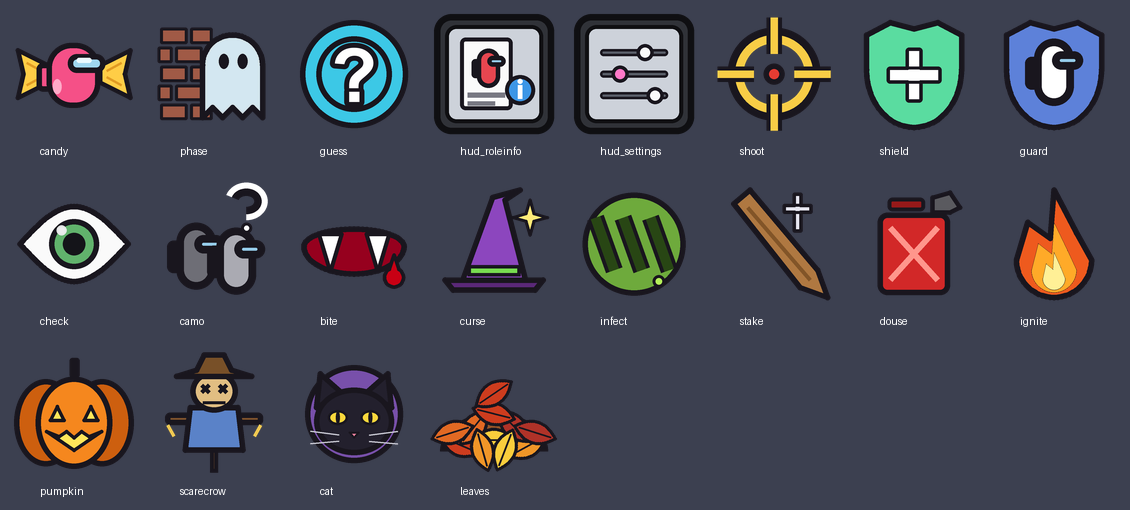
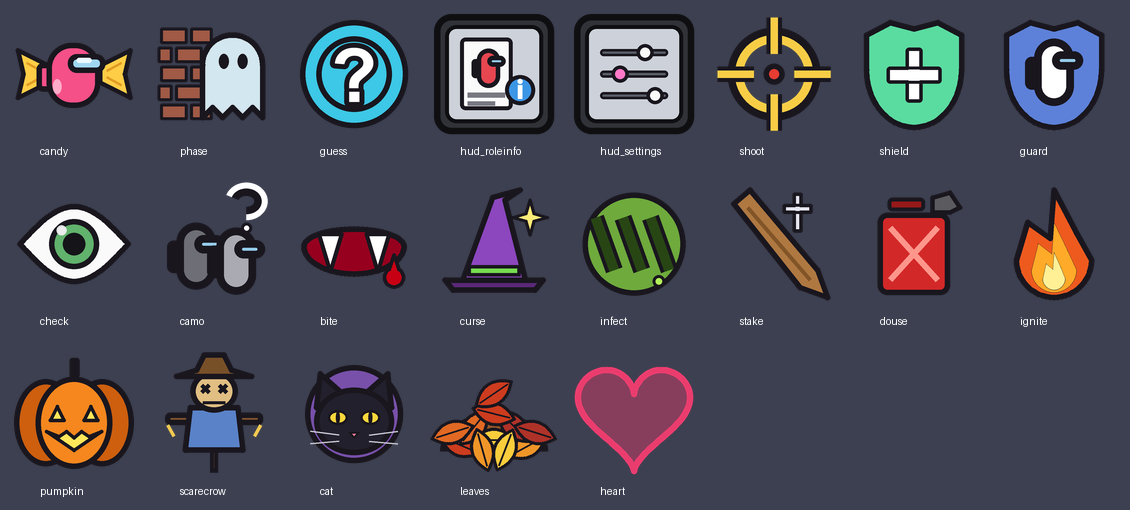
Spieleabend-Graffiti auf The Skeld

Changed region(s): [[0.4956, 0.7059, 0.6195, 0.9412], [0.5265, 0.9412, 0.5575, 0.9706]]

diff --git a/Core/MapGraffiti.cs b/Core/MapGraffiti.cs
@@ -1,0 +1,122 @@
+using System.Collections.Generic;
+using System.Linq;
+using TMPro;
+using UnityEngine;
+
+namespace Spieleabend.Core;
+
+/// <summary>
+/// Spieleabend-Graffiti auf The Skeld: Sprueche der Mitspieler an Waenden, Tischen und Aufgaben.
+/// Rein optisch und lokal. Positionen werden aus Raeumen, Aufgaben und Vents berechnet, damit sie auch auf der
+/// gespiegelten Skeld passen.
+/// </summary>
+internal static class MapGraffiti
+{
+    private static System.IntPtr spawnedFor;
+    private static readonly List<GameObject> objects = new();
+
+    internal static void Update()
+    {
+        var ship = ShipStatus.Instance;
+        if (!ship)
+        {
+            spawnedFor = System.IntPtr.Zero;
+            objects.Clear();
+            return;
+        }
+        if (spawnedFor == ship.Pointer || ship.Type != ShipStatus.MapType.Ship) return;
+
+        var local = PlayerControl.LocalPlayer;
+        if (!local || !local.cosmetics || !local.cosmetics.nameText) return; // Schrift kommt vom Namensschild
+        spawnedFor = ship.Pointer;
+
+        try { Spawn(ship, local.cosmetics.nameText); }
+        catch (System.Exception e) { Plugin.Logger.LogWarning($"Graffiti: {e.Message}"); }
+    }
+
+    private static void Spawn(ShipStatus ship, TextMeshPro font)
+    {
+        // An Waenden (oberer Rand des Raums)
+        Room(ship, SystemTypes.Cafeteria, 0.22f, 0.9f, "Waybe isses", new Color32(255, 200, 60, 255), -4f);
+        Room(ship, SystemTypes.Electrical, 0.5f, 0.88f, "Ich bins der Imposter", new Color32(255, 60, 60, 255), 3f);
+        Room(ship, SystemTypes.UpperEngine, 0.5f, 0.88f, "WoabWoabWoab", new Color32(120, 230, 90, 255), -3f);
+        Room(ship, SystemTypes.Security, 0.5f, 0.88f, "Dennator is Save", new Color32(90, 170, 255, 255), 2f);
+
+        // Herzen
+        Heart(ship, SystemTypes.MedBay, 0.75f, 0.82f, "V + P", -8f);
+        Heart(ship, SystemTypes.Storage, 0.3f, 0.78f, "I + M", 7f);
+
+        // An Aufgaben
+        var download = Consoles(ship, TaskTypes.UploadData)
+            .OrderBy(c => c.Room == SystemTypes.Nav ? 0 : c.Room == SystemTypes.Weapons ? 1 : c.Room == SystemTypes.Admin ? 9 : 5)
+            .FirstOrDefault();
+        if (download) Text(font, (Vector2)download.transform.position + new Vector2(0f, 0.9f), "Lord Toasti's 4ter Download", new Color32(255, 150, 40, 255), 0.75f, 4f);
+
+        var swipe = Consoles(ship, TaskTypes.SwipeCard).FirstOrDefault();
+        if (swipe) Text(font, (Vector2)swipe.transform.position + new Vector2(0f, 0.8f), "Froschi das ist kein Bug.", new Color32(110, 220, 120, 255), 0.75f, -3f);
+
+        // Am Vent, das der Cafeteria am naechsten ist
+        var cafe = RoomBounds(ship, SystemTypes.Cafeteria);
+        if (cafe.HasValue)
+        {
+            var vent = ship.AllVents.Where(v => v).OrderBy(v => Vector2.Distance(v.transform.position, cafe.Value.center)).FirstOrDefault();
+            if (vent) Text(font, (Vector2)vent.transform.position + new Vector2(0f, 0.75f), "ich hab Kem Venten sehen", new Color32(230, 120, 255, 255), 0.75f, 5f);
+        }
+
+        void Room(ShipStatus s, SystemTypes room, float fx, float fy, string text, Color color, float angle)
+        {
+            var b = RoomBounds(s, room);
+            if (b.HasValue) Text(font, At(b.Value, fx, fy), text, color, 1f, angle);
+        }
+
+        void Heart(ShipStatus s, SystemTypes room, float fx, float fy, string text, float angle)
+        {
+            var b = RoomBounds(s, room);
+            if (!b.HasValue) return;
+            var pos = At(b.Value, fx, fy);
+            var go = new GameObject("Spieleabend_GraffitiHeart");
+            go.transform.SetParent(s.transform, true);
+            go.transform.position = new Vector3(pos.x, pos.y, pos.y / 1000f + 0.002f); // hinter dem Text
+            go.transform.localRotation = Quaternion.Euler(0f, 0f, angle);
+            go.transform.localScale = new Vector3(0.9f, 0.9f, 1f);
+            go.AddComponent<SpriteRenderer>().sprite = ButtonIcons.Get("heart", null);
+            objects.Add(go);
+            Text(font, pos + new Vector2(0f, 0.05f), text, Color.white, 0.8f, angle);
+        }
+    }
+
+    private static IEnumerable<Console> Consoles(ShipStatus ship, TaskTypes type) =>
+        ship.AllConsoles.Where(c => c && c.TaskTypes != null && c.TaskTypes.Contains(type));
+
+    private static Bounds? RoomBounds(ShipStatus ship, SystemTypes room)
+    {
+        foreach (var r in ship.AllRooms)
+            if (r && r.RoomId == room && r.roomArea) return r.roomArea.bounds;
+        return null;
+    }
+
+    private static Vector2 At(Bounds b, float fx, float fy) => new(b.min.x + b.size.x * fx, b.min.y + b.size.y * fy);
+
+    /// <summary>Text im Stil der Spielernamen (gleiche Schrift mit Kontur), flach auf dem Boden/der Wand.</summary>
+    private static void Text(TextMeshPro font, Vector2 pos, string text, Color color, float size, float angle)
+    {
+        var go = Object.Instantiate(font.gameObject, ShipStatus.Instance.transform);
+        go.name = "Spieleabend_Graffiti";
+        go.SetActive(true);
+        foreach (Transform child in go.transform) Object.Destroy(child.gameObject);
+
+        var tmp = go.GetComponent<TextMeshPro>();
+        tmp.enabled = true;
+        tmp.text = text;
+        tmp.color = color;
+        tmp.alpha = 0.85f;
+        tmp.enableWordWrapping = false;
+        tmp.alignment = TextAlignmentOptions.Center;
+
+        var scale = font.transform.lossyScale * size;
+        go.transform.localScale = new Vector3(scale.x, scale.y, 1f);
+        go.transform.position = new Vector3(pos.x, pos.y, pos.y / 1000f + 0.001f); // knapp hinter Spielern auf gleicher Hoehe, vor dem Boden
+        go.transform.rotation = Quaternion.Euler(0f, 0f, angle);
+        objects.Add(go);
+    }
+}

diff --git a/Assets/make_icons.py b/Assets/make_icons.py
@@ -384,6 +384,21 @@ def icon_leaves():
     return img
 
 
+def icon_heart():
+    """Graffiti-Herz fuer die Skeld-Waende: gespruehter Rand, halb durchsichtige Fuellung."""
+    img, d = canvas()
+    c = S / 2
+    pts = []
+    for i in range(0, 361, 4):
+        t = math.radians(i)
+        x = 16 * math.sin(t) ** 3
+        y = 13 * math.cos(t) - 5 * math.cos(2 * t) - 2 * math.cos(3 * t) - math.cos(4 * t)
+        pts.append((c + x * 14, c - y * 14 - 10))
+    d.polygon(pts, fill=(235, 60, 110, 110))
+    d.line(pts + [pts[0]], fill=(235, 60, 110, 255), width=26, joint="curve")
+    return img
+
+
 ICONS = {
     "candy": icon_candy,
     "phase": icon_phase,
@@ -405,6 +420,7 @@ ICONS = {
     "scarecrow": icon_scarecrow,
     "cat": icon_cat,
     "leaves": icon_leaves,
+    "heart": icon_heart,
 }
 
 if __name__ == "__main__":

diff --git a/Core/Patches.cs b/Core/Patches.cs
@@ -37,6 +37,7 @@ internal static class HudUpdatePatch
         ButtonManager.Update(__instance);
         RoleUI.Update();
         HalloweenTheme.Update();
+        MapGraffiti.Update();
         ProtectionVisuals.Update();
         FireEffect.Update();
         HudButtons.Update(__instance);

diff --git a/README.md b/README.md
@@ -106,6 +106,10 @@ Nur wenn sich BepInEx oder der Launcher selbst ändert, braucht jeder die neue E
 
 Ohne Launcher geht es weiterhin mit `dist\AmongUsSpieleabend-<Version>.zip` und `Installieren.bat` (Anleitung in `Verteilung/LIESMICH.txt`).
 
+## Spieleabend-Graffiti (The Skeld)
+
+Auf The Skeld stehen Sprüche der Mitspieler an Wänden und Aufgaben: „Waybe isses“ (Cafeteria), „Ich bins der Imposter“ (Elektrik), „WoabWoabWoab“ (Oberer Motor), „Dennator is Save“ (Sicherheit), „Lord Toasti's 4ter Download“ (an einem Download), „Froschi das ist kein Bug.“ (am Karten-Durchzug), „ich hab Kem Venten sehen“ (am Vent bei der Cafeteria) und zwei Herzen mit „V + P“ (Medbay) und „I + M“ (Lager). Rein optisch, Code in `Core/MapGraffiti.cs`.
+
 ## Server
 
 Beim Start trägt der Mod die Modded-Server (**Modded EU**, NA, Asia) automatisch in die Serverliste ein (`Core/ServerSetup.cs`). Beim allerersten Start ist **Modded EU** gleich ausgewählt. Danach bleibt, was man selbst wählt (Weltkugel-Symbol unten rechts im Online-Menü).
